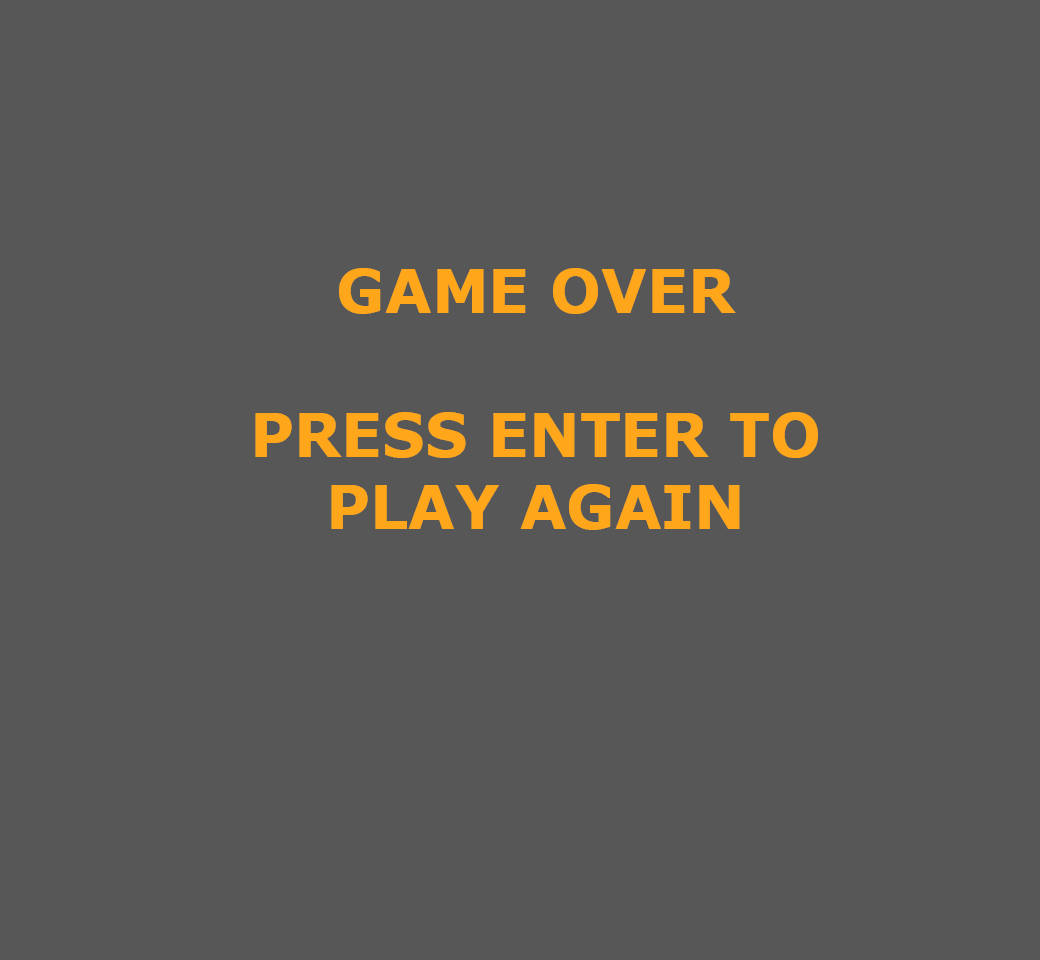
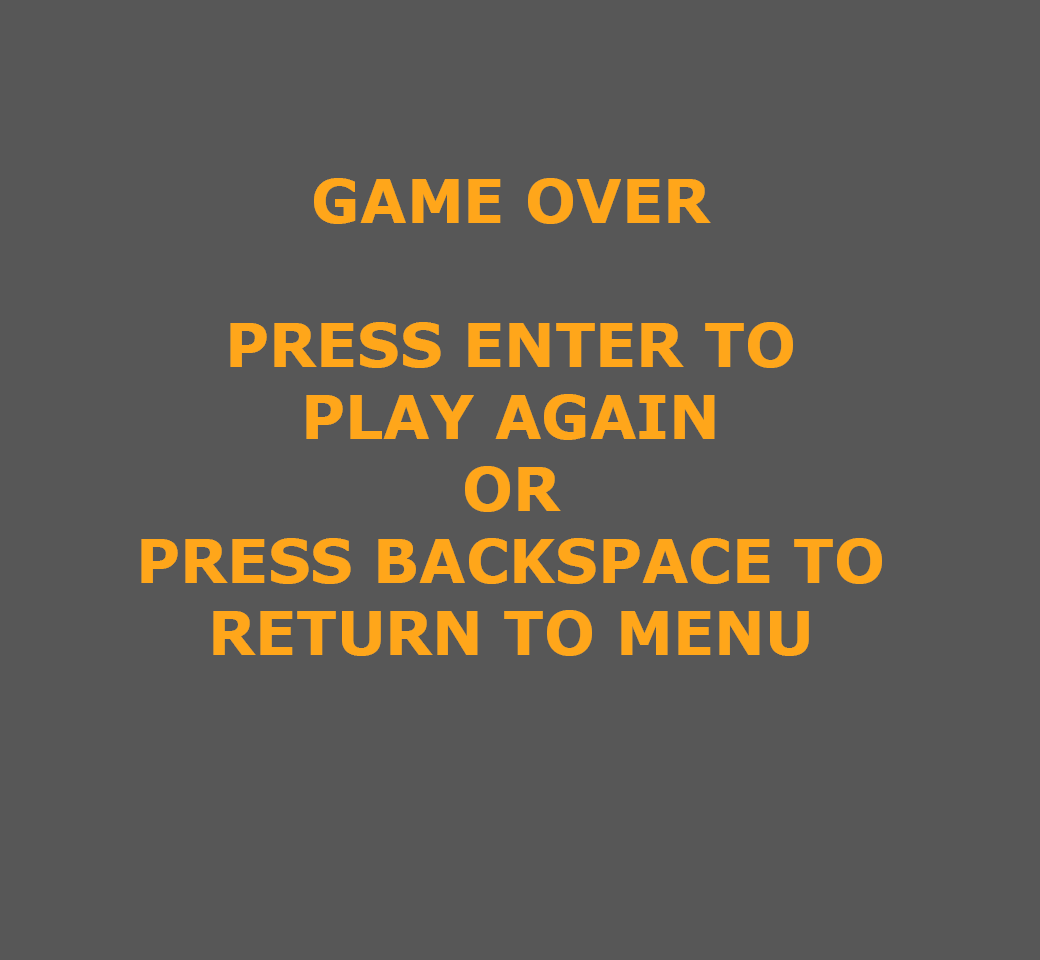
Start menu

Changed region(s): [[0.1231, 0.2812, 0.8615, 0.6875], [0.2769, 0.1875, 0.6769, 0.25]]

diff --git a/ModuleSceneIntro.cpp b/ModuleSceneIntro.cpp
@@ -41,6 +41,7 @@ bool ModuleSceneIntro::Start()
     bigbumper = App->textures->Load("pinball/bigbumper.png");
 	extra_ball = App->textures->Load("pinball/extra_ball.png");
 	game_over_text = App->textures->Load("pinball/game_over.png");
+	start_menu = App->textures->Load("pinball/start_menu.png");
 
 	#include "BackgroundVertex.h"
 	background_phys[0] = App->physics->CreateChain(0, 0, background_vertex, 226, true);
@@ -185,10 +186,10 @@ update_status ModuleSceneIntro::Update()
 	{
 		if (!interactable->data->active && interactable->data->phys->body->IsActive()) interactable->data->phys->body->SetActive(false);
 		else if (interactable->data->active && !interactable->data->phys->body->IsActive()) interactable->data->phys->body->SetActive(true);
-		if (restart) interactable->data->Restart();
+		if (state == RESTART) interactable->data->Restart();
 		interactable = interactable->next;
 	}
-	if (restart)
+	if (state == RESTART)
 	{
 		//restart balls
 		ball_phys->body->SetTransform(START_POSITION, ball_phys->GetRotation());
@@ -207,7 +208,7 @@ update_status ModuleSceneIntro::Update()
 
 		tilts = 3;
 
-		restart = false;
+		state = PLAYING;
 	}
 
 	ManageInputs();
@@ -295,7 +296,7 @@ void ModuleSceneIntro::LoseLife()
 	{
 		GameOver();
 	}
-	else restart = true;
+	else state = RESTART;
 }
 
 void ModuleSceneIntro::CreateWheel(int x, int y)
@@ -452,53 +453,68 @@ void ModuleSceneIntro::BlitScene()
 	spring_phys->GetPosition(x, y);
 	App->renderer->Blit(spring, x, y);
 
-	if(game_over) App->renderer->Blit(game_over_text, 0, 0);
+	if(state == GAME_OVER) App->renderer->Blit(game_over_text, 0, 0);
+	else if(state == START_MENU) App->renderer->Blit(start_menu, 0, 0);
 }
 
 void ModuleSceneIntro::ManageInputs()
 {
-	if (App->input->GetKey(SDL_SCANCODE_DOWN) == KEY_DOWN)
+	if (state == PLAYING)
 	{
-		mouse_joint->SetTarget({ PIXEL_TO_METERS(449), PIXEL_TO_METERS(900) });
-		mouse_joint->SetFrequency(1.0f);
-	}
-	else if (App->input->GetKey(SDL_SCANCODE_DOWN) == KEY_UP)
-	{
-		mouse_joint->SetTarget({ PIXEL_TO_METERS(449), PIXEL_TO_METERS(800) });
-		mouse_joint->SetFrequency(20.0f);
-	}
-
-	if (App->input->GetKey(SDL_SCANCODE_RIGHT) == KEY_REPEAT)
-	{
-		flippers[1]->body->ApplyTorque(10000.0f, true);
-		flippers[3]->body->ApplyTorque(10000.0f, true);
-	}
-	if (App->input->GetKey(SDL_SCANCODE_LEFT) == KEY_REPEAT)
-	{
-		flippers[0]->body->ApplyTorque(-10000.0f, true);
-		flippers[2]->body->ApplyTorque(-10000.0f, true);
-		flippers[4]->body->ApplyTorque(-10000.0f, true);
-	}
-
-	if (App->input->GetKey(SDL_SCANCODE_UP) == KEY_DOWN)
-	{
-		if (tilts > 0)
+		if (App->input->GetKey(SDL_SCANCODE_DOWN) == KEY_DOWN)
 		{
-			ball_phys->body->ApplyForceToCenter({ 0.0f,80.0f }, true);
-			tilts--;
+			mouse_joint->SetTarget({ PIXEL_TO_METERS(449), PIXEL_TO_METERS(900) });
+			mouse_joint->SetFrequency(1.0f);
+		}
+		else if (App->input->GetKey(SDL_SCANCODE_DOWN) == KEY_UP)
+		{
+			mouse_joint->SetTarget({ PIXEL_TO_METERS(449), PIXEL_TO_METERS(800) });
+			mouse_joint->SetFrequency(20.0f);
+		}
+
+		if (App->input->GetKey(SDL_SCANCODE_RIGHT) == KEY_REPEAT)
+		{
+			flippers[1]->body->ApplyTorque(10000.0f, true);
+			flippers[3]->body->ApplyTorque(10000.0f, true);
+		}
+		if (App->input->GetKey(SDL_SCANCODE_LEFT) == KEY_REPEAT)
+		{
+			flippers[0]->body->ApplyTorque(-10000.0f, true);
+			flippers[2]->body->ApplyTorque(-10000.0f, true);
+			flippers[4]->body->ApplyTorque(-10000.0f, true);
+		}
+
+		if (App->input->GetKey(SDL_SCANCODE_UP) == KEY_DOWN)
+		{
+			if (tilts > 0)
+			{
+				ball_phys->body->ApplyForceToCenter({ 0.0f,80.0f }, true);
+				tilts--;
+			}
 		}
 	}
 
-	if (game_over && App->input->GetKey(SDL_SCANCODE_RETURN) == KEY_DOWN)
+	if (state == START_MENU && App->input->GetKey(SDL_SCANCODE_RETURN) == KEY_DOWN)
 	{
-		lives = 3;
-		game_over = false;
-		restart = true;
+		if (lives == 0) {
+			state = RESTART;
+			lives = 3;
+		}
+		else state = PLAYING;
+	}
+
+	if (state == GAME_OVER)
+	{
+		if (App->input->GetKey(SDL_SCANCODE_RETURN) == KEY_DOWN) {
+			state = RESTART;
+			lives = 3;
+		}
+		else if (App->input->GetKey(SDL_SCANCODE_BACKSPACE) == KEY_DOWN) state = START_MENU;
 	}
 }
 
 void ModuleSceneIntro::GameOver()
 {
-	game_over = true;
+	state = GAME_OVER;
 	App->score->Finished();
 }

diff --git a/ModuleScore.cpp b/ModuleScore.cpp
@@ -53,35 +53,38 @@ bool ModuleScore::Start()
 
 update_status ModuleScore::Update()
 {
-	// blit score
-	int current_x = 995;
-	int current_y = 63;
-	int prev_x = 1002;
-	int prev_y = 247;
-	int high_x = 1002;
-	int high_y = 189;
-	for (int i = 5; i > 0; i--)
+	if (App->scene_intro->state != START_MENU)
 	{
-		if (digit_score[i] != -1)
+		// blit score
+		int current_x = 995;
+		int current_y = 63;
+		int prev_x = 1002;
+		int prev_y = 247;
+		int high_x = 1002;
+		int high_y = 189;
+		for (int i = 5; i > 0; i--)
 		{
-			App->renderer->Blit(font, current_x, current_y, &number_rects[digit_score[i]]);
-			current_x -= 12;
+			if (digit_score[i] != -1)
+			{
+				App->renderer->Blit(font, current_x, current_y, &number_rects[digit_score[i]]);
+				current_x -= 12;
+			}
+			if (prev_digit_score[i] != -1)
+			{
+				App->renderer->Blit(extra_font, prev_x, prev_y, &extra_number_rects[digit_score[i]]);
+				prev_x -= 14;
+			}
+			if (high_digit_score[i] != -1)
+			{
+				App->renderer->Blit(extra_font, high_x, high_y, &extra_number_rects[digit_score[i]]);
+				high_x -= 14;
+			}
 		}
-		if (prev_digit_score[i] != -1)
-		{
-			App->renderer->Blit(extra_font, prev_x, prev_y, &extra_number_rects[digit_score[i]]);
-			prev_x -= 14;
-		}
-		if (high_digit_score[i] != -1)
-		{
-			App->renderer->Blit(extra_font, high_x, high_y, &extra_number_rects[digit_score[i]]);
-			high_x -= 14;
-		}
-	}
 
-	App->renderer->Blit(lives_font, 997, 482, &lives_rects[App->scene_intro->lives]);
-	App->renderer->Blit(lives_font, 997, 526, &lives_rects[App->scene_intro->tilts]);
+		App->renderer->Blit(lives_font, 997, 482, &lives_rects[App->scene_intro->lives]);
+		App->renderer->Blit(lives_font, 997, 526, &lives_rects[App->scene_intro->tilts]);
 
+	}	
 
 	return UPDATE_CONTINUE;
 }

diff --git a/ModuleSceneIntro.h b/ModuleSceneIntro.h
@@ -10,6 +10,14 @@ class b2MouseJoint;
 
 #define START_POSITION { PIXEL_TO_METERS(449), PIXEL_TO_METERS(625) }
 
+enum GameState
+{
+	PLAYING,
+	RESTART,
+	GAME_OVER,
+	START_MENU
+};
+
 class ModuleSceneIntro : public Module
 {
 public:
@@ -57,9 +65,9 @@ public:
 	SDL_Texture* bigbumper;
 	SDL_Texture* extra_ball;
 	SDL_Texture* game_over_text;
+	SDL_Texture* start_menu;
 
 	int lives = 3;
 	int tilts = 3;
-	bool restart = false;
-	bool game_over = false;
+	GameState state = START_MENU;
 };
